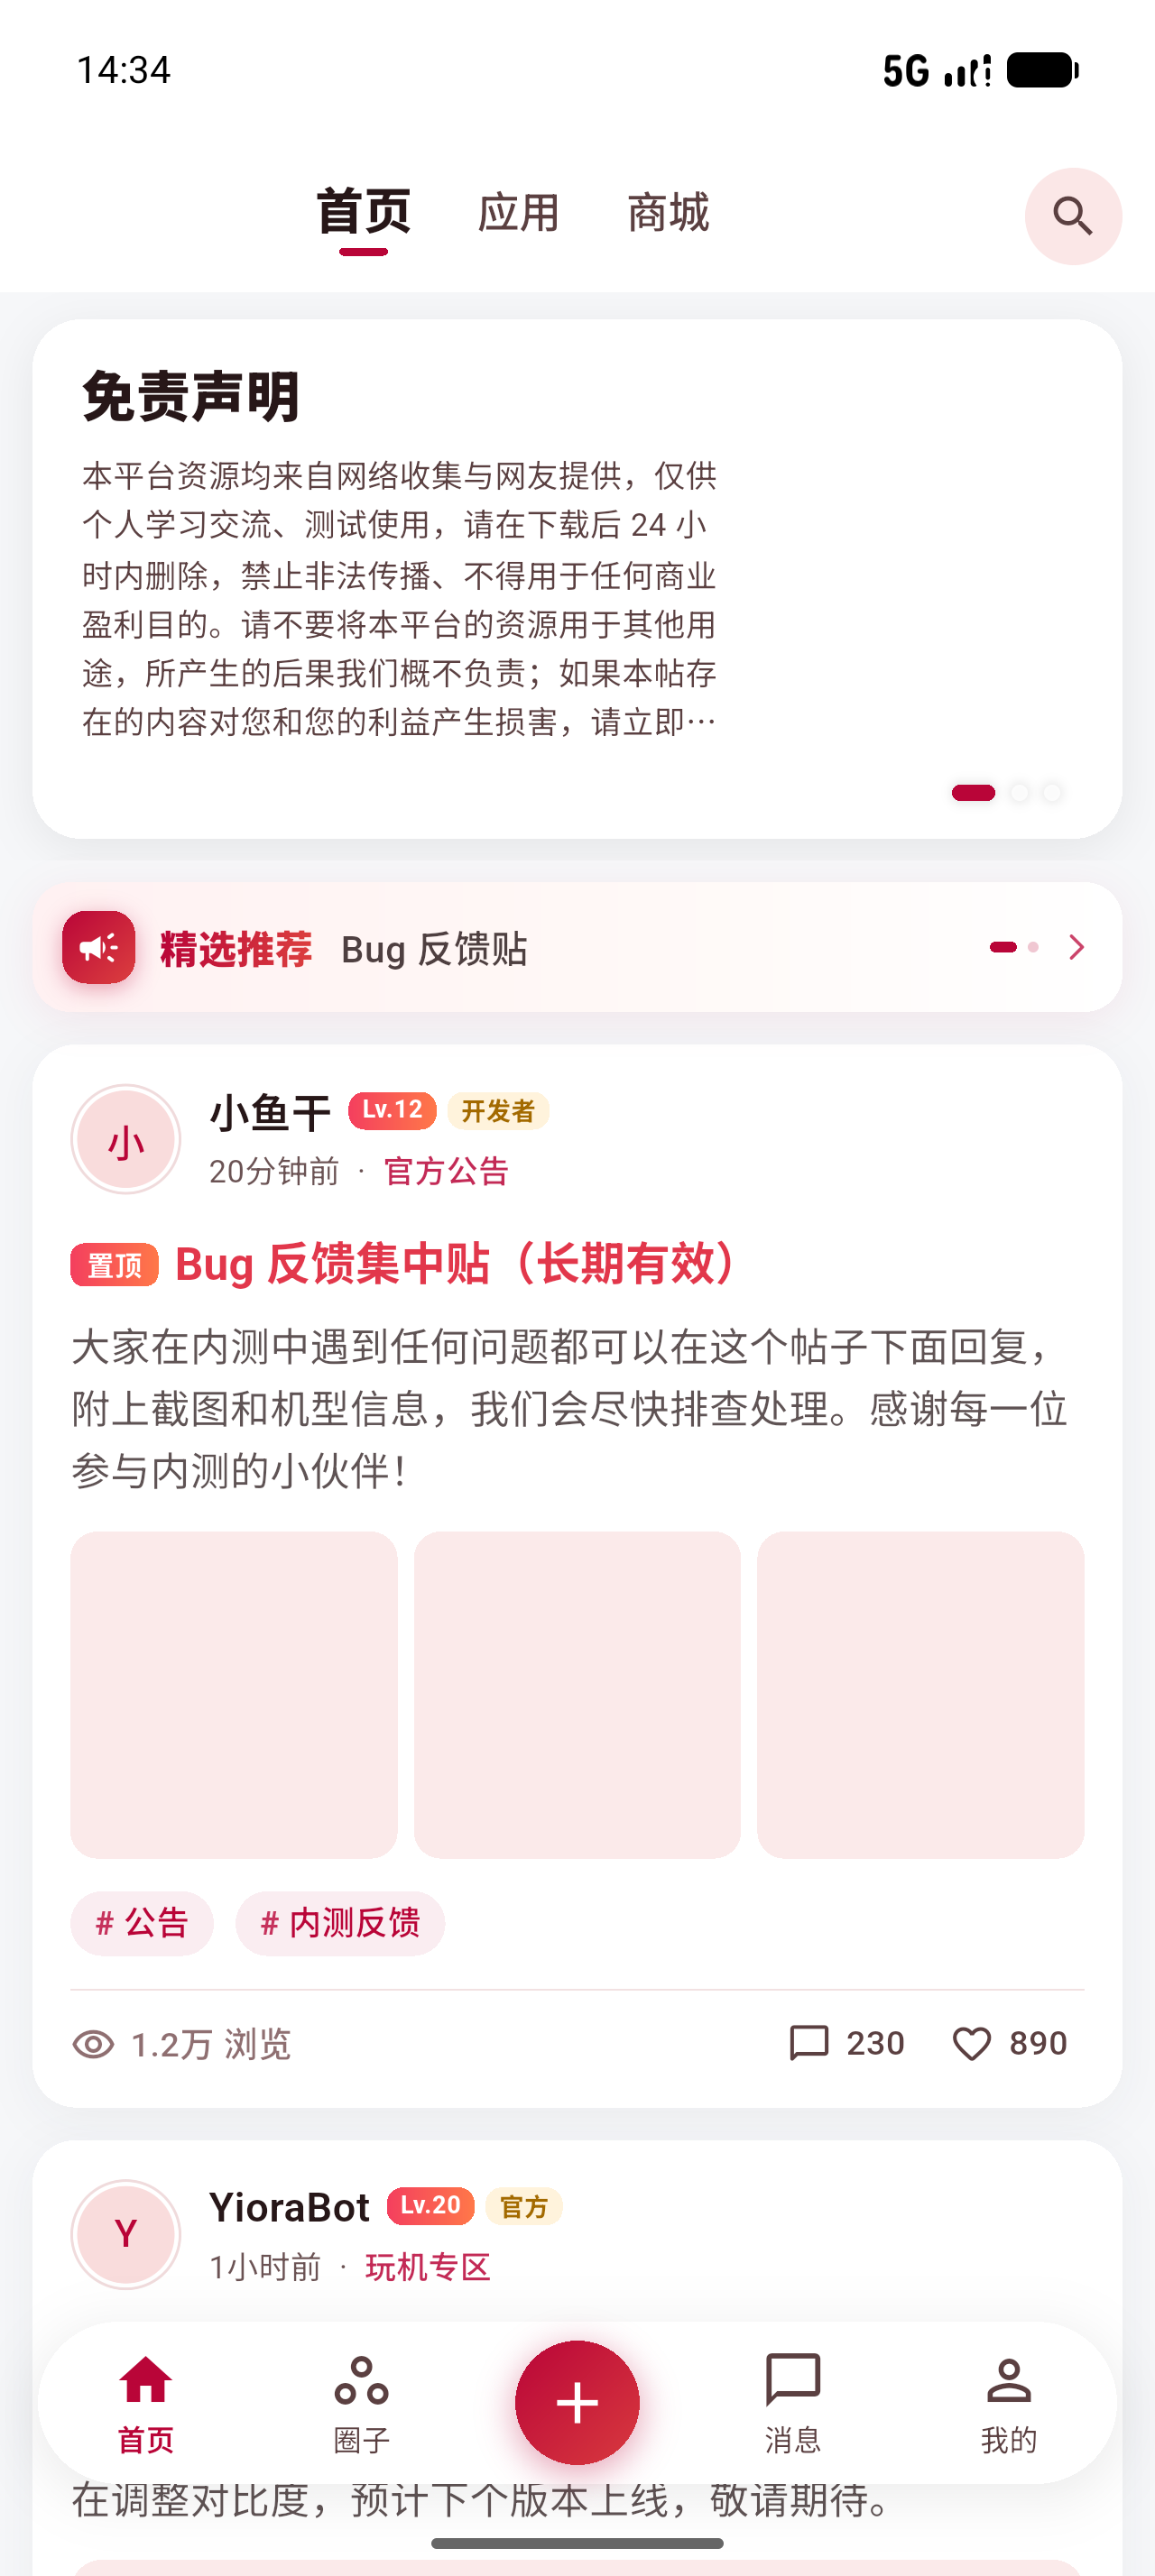
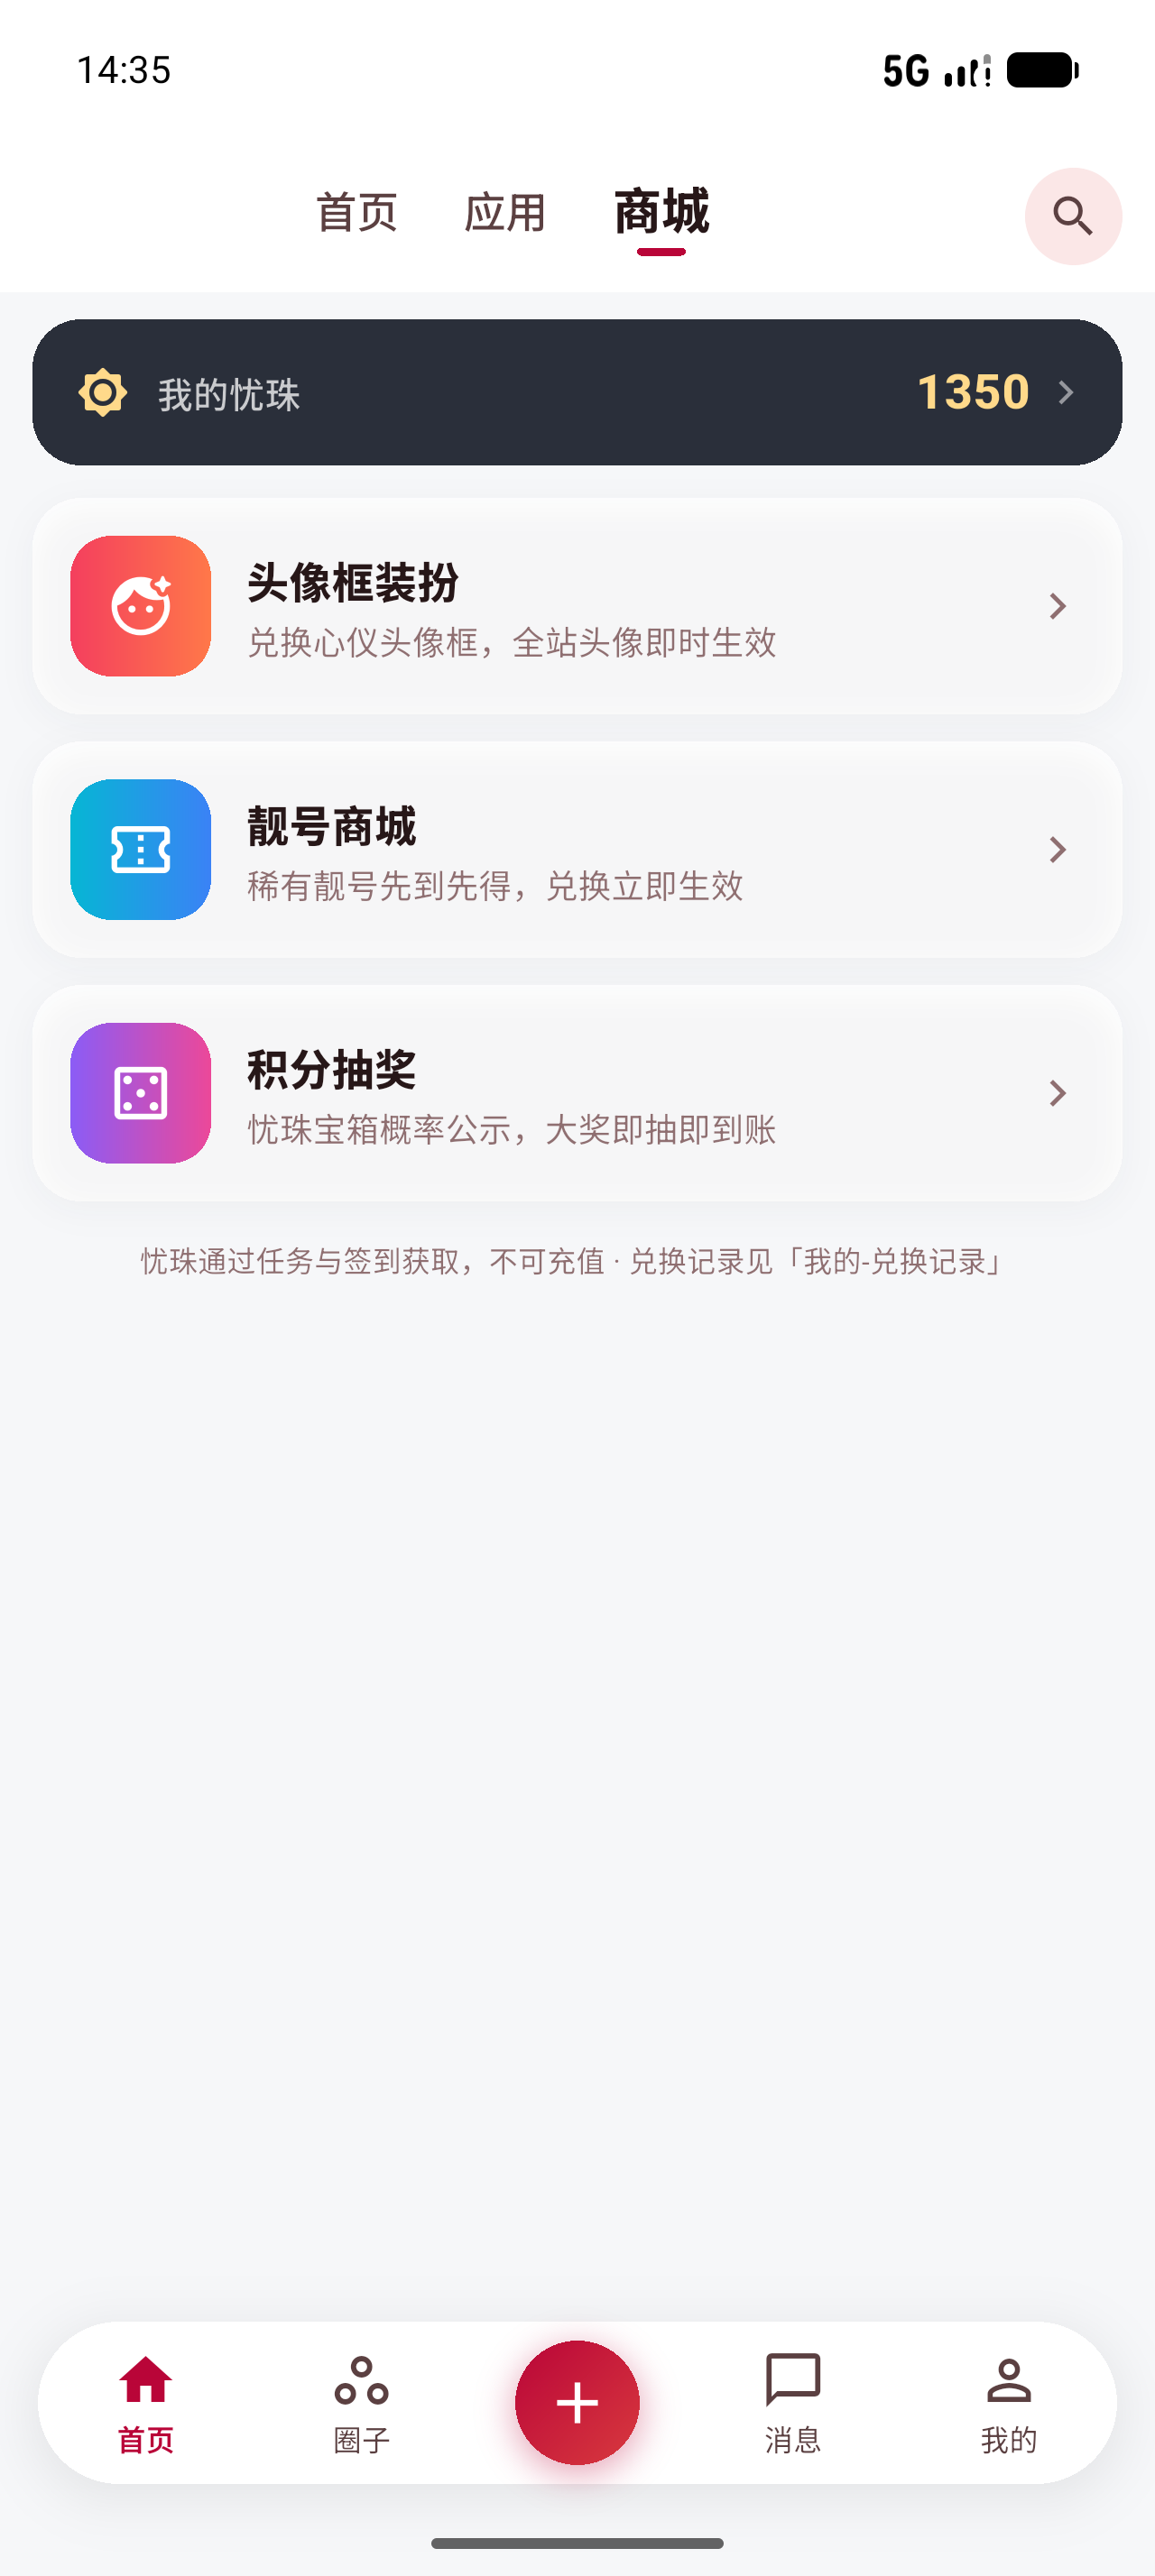
feat: push channel dashboard (per-channel ok/fail daily counters in apppush manager, admin /push/stats endpoint, dashboard card with fail-rate)

diff --git a/admin-web/src/views/yiora/DashboardView.vue b/admin-web/src/views/yiora/DashboardView.vue
@@ -48,6 +48,35 @@
       </template>
       <div ref="chartEl" class="chart" />
     </el-card>
+
+    <!-- 推送渠道(离线推送发送量/失败率,apppush 渠道计数) -->
+    <el-card v-if="pushStats.length" class="chart-card">
+      <template #header>
+        <div class="chart-bar">
+          <span>推送渠道(近 7 日)</span>
+          <span class="push-hint">离线推送各系统级通道健康度;未配置渠道不显示</span>
+        </div>
+      </template>
+      <el-table :data="pushStats" size="small">
+        <el-table-column prop="channel" label="渠道" width="140">
+          <template #default="{ row }">
+            <el-tag size="small">{{ row.channel }}</el-tag>
+          </template>
+        </el-table-column>
+        <el-table-column prop="ok" label="发送成功" width="120" />
+        <el-table-column prop="fail" label="失败" width="120" />
+        <el-table-column label="失败率" width="120">
+          <template #default="{ row }">
+            <span :class="{ 'fail-high': failRate(row) >= 5 }">{{ failRate(row).toFixed(1) }}%</span>
+          </template>
+        </el-table-column>
+        <el-table-column label="每日走势" min-width="200">
+          <template #default="{ row }">
+            <span class="spark">{{ row.days.map((d: { ok: number }) => d.ok).join(' / ') }}</span>
+          </template>
+        </el-table-column>
+      </el-table>
+    </el-card>
   </div>
 </template>
 
@@ -72,6 +101,19 @@ const loading = ref(false)
 const days = ref(30)
 const chartEl = ref<HTMLDivElement>()
 let chart: echarts.ECharts | null = null
+
+interface PushChannelStat {
+  channel: string
+  ok: number
+  fail: number
+  days: { date: string; ok: number; fail: number }[]
+}
+const pushStats = ref<PushChannelStat[]>([])
+
+function failRate(row: PushChannelStat) {
+  const total = row.ok + row.fail
+  return total === 0 ? 0 : (row.fail / total) * 100
+}
 
 const greeting = computed(() => {
   const h = new Date().getHours()
@@ -174,6 +216,7 @@ onMounted(async () => {
   try {
     data.value = await api.dashboard()
     await loadTrend()
+    pushStats.value = (await api.pushStats(7)).channels
     window.addEventListener('resize', onResize)
   } finally {
     loading.value = false
@@ -221,6 +264,20 @@ onBeforeUnmount(() => {
 }
 .hello-actions {
   margin-left: auto;
+}
+.push-hint {
+  font-size: 12px;
+  font-weight: 400;
+  color: var(--el-text-color-secondary);
+}
+.fail-high {
+  color: var(--el-color-danger);
+  font-weight: 600;
+}
+.spark {
+  color: var(--el-text-color-secondary);
+  font-size: 12px;
+  letter-spacing: 0.5px;
 }
 .col {
   margin-bottom: 16px;

diff --git a/admin-web/src/api/yiora.ts b/admin-web/src/api/yiora.ts
@@ -320,6 +320,12 @@ export const api = {
   // AI 管家应答来源统计
   botStats: (days = 7) =>
     http.get('/bot/stats', { params: { days } }) as Promise<{ days: { date: string; faq: number; llm: number; fallback: number }[] }>,
+
+  // 推送渠道看板
+  pushStats: (days = 7) =>
+    http.get('/push/stats', { params: { days } }) as Promise<{
+      channels: { channel: string; ok: number; fail: number; days: { date: string; ok: number; fail: number }[] }[]
+    }>,
 }
 
 export interface AdminCircleItem {

diff --git a/server/internal/pkg/apppush/apppush.go b/server/internal/pkg/apppush/apppush.go
@@ -6,8 +6,12 @@ package apppush
 
 import (
 	"context"
+	"fmt"
+	"sort"
+	"time"
 
 	"github.com/zeromicro/go-zero/core/logx"
+	"github.com/zeromicro/go-zero/core/stores/redis"
 )
 
 // Notification 一条离线推送。Deeplink 形如 yiora://post/123,客户端点击通知路由。
@@ -24,11 +28,15 @@ type Pusher interface {
 }
 
 // Manager 渠道路由器。空 Manager(无驱动)所有 Send 直接跳过。
+// 每次发送按渠道×结果落 Redis 日计数(30 天滚动),供后台推送看板。
 type Manager struct {
 	drivers map[string]Pusher
+	rds     *redis.Redis
 }
 
-func NewManager() *Manager { return &Manager{drivers: map[string]Pusher{}} }
+func NewManager(rds *redis.Redis) *Manager {
+	return &Manager{drivers: map[string]Pusher{}, rds: rds}
+}
 
 func (m *Manager) Register(channel string, p Pusher) {
 	if p != nil {
@@ -39,6 +47,31 @@ func (m *Manager) Register(channel string, p Pusher) {
 // Enabled 是否有任一驱动在册(调用方可先判再查 token 表,省一次查询)。
 func (m *Manager) Enabled() bool { return len(m.drivers) > 0 }
 
+// Channels 在册渠道名(看板遍历用),字典序稳定输出。
+func (m *Manager) Channels() []string {
+	out := make([]string, 0, len(m.drivers))
+	for c := range m.drivers {
+		out = append(out, c)
+	}
+	sort.Strings(out)
+	return out
+}
+
+// StatKey 渠道日计数 key(Manager 写入与看板读取共用,result 取 ok/fail)。
+func StatKey(channel, result, yyyymmdd string) string {
+	return fmt.Sprintf("push:stat:%s:%s:%s", channel, result, yyyymmdd)
+}
+
+func (m *Manager) incrStat(ctx context.Context, channel, result string) {
+	if m.rds == nil {
+		return
+	}
+	key := StatKey(channel, result, time.Now().Format("20060102"))
+	if n, err := m.rds.IncrCtx(ctx, key); err == nil && n == 1 {
+		_ = m.rds.ExpireCtx(ctx, key, 30*86400)
+	}
+}
+
 // Send 按渠道路由;渠道未配置或发送失败只记日志(离线推送是尽力而为的补偿,不影响主链路)。
 func (m *Manager) Send(ctx context.Context, channel, token string, n Notification) {
 	d, ok := m.drivers[channel]
@@ -47,5 +80,8 @@ func (m *Manager) Send(ctx context.Context, channel, token string, n Notificatio
 	}
 	if err := d.Send(ctx, token, n); err != nil {
 		logx.WithContext(ctx).Errorf("apppush %s: %v", d.Name(), err)
+		m.incrStat(ctx, channel, "fail")
+		return
 	}
+	m.incrStat(ctx, channel, "ok")
 }

diff --git a/server/internal/logic/adminlogic/adminlogic.go b/server/internal/logic/adminlogic/adminlogic.go
@@ -18,6 +18,7 @@ import (
 	"github.com/yiora/server/internal/logic/uploadlogic"
 	"github.com/yiora/server/internal/logic/userlogic"
 	"github.com/yiora/server/internal/model"
+	"github.com/yiora/server/internal/pkg/apppush"
 	"github.com/yiora/server/internal/pkg/captcha"
 	"github.com/yiora/server/internal/pkg/jwtx"
 	"github.com/yiora/server/internal/pkg/totp"
@@ -750,6 +751,36 @@ func (l *Logic) PublishNotice(ctx context.Context, adminID int64, req *types.Adm
 // Agreement 协议内容(用户侧/后台共用读取)。
 // agreementKinds 协议/静态文案合法类型;bot_prompt 为管家 LLM 系统提示词(仅后台可读写,用户侧接口拒绝)。
 var agreementKinds = map[string]bool{"user": true, "privacy": true, "bot_prompt": true}
+
+// PushStats 推送渠道看板:各渠道发送/失败日计数(apppush.Manager 写入)。
+func (l *Logic) PushStats(ctx context.Context, days int) (*types.PushStatsResp, error) {
+	out := &types.PushStatsResp{Channels: []types.PushChannelStat{}}
+	getN := func(key string) int64 {
+		v, err := l.svcCtx.Redis.GetCtx(ctx, key)
+		if err != nil || v == "" {
+			return 0
+		}
+		n, _ := strconv.ParseInt(v, 10, 64)
+		return n
+	}
+	for _, ch := range l.svcCtx.AppPush.Channels() {
+		stat := types.PushChannelStat{Channel: ch}
+		for i := days - 1; i >= 0; i-- {
+			day := time.Now().AddDate(0, 0, -i)
+			ok := getN(apppush.StatKey(ch, "ok", day.Format("20060102")))
+			fail := getN(apppush.StatKey(ch, "fail", day.Format("20060102")))
+			stat.OK += ok
+			stat.Fail += fail
+			stat.Days = append(stat.Days, struct {
+				Date string `json:"date"`
+				OK   int64  `json:"ok"`
+				Fail int64  `json:"fail"`
+			}{Date: day.Format("2006-01-02"), OK: ok, Fail: fail})
+		}
+		out.Channels = append(out.Channels, stat)
+	}
+	return out, nil
+}
 
 // BotStats 管家应答命中来源统计(Redis 按日计数,imlogic.botReply 写入)。
 func (l *Logic) BotStats(ctx context.Context, days int) (*types.BotStatsResp, error) {

diff --git a/server/internal/types/types.go b/server/internal/types/types.go
@@ -130,6 +130,27 @@ type BotStatsResp struct {
 	Days []BotStatDay `json:"days"`
 }
 
+// ---- 推送渠道看板 ----
+
+type PushStatsReq struct {
+	Days int `form:"days,default=7,range=[1:30]"`
+}
+
+type PushChannelStat struct {
+	Channel string `json:"channel"`
+	OK      int64  `json:"ok"`
+	Fail    int64  `json:"fail"`
+	Days    []struct {
+		Date string `json:"date"`
+		OK   int64  `json:"ok"`
+		Fail int64  `json:"fail"`
+	} `json:"days"`
+}
+
+type PushStatsResp struct {
+	Channels []PushChannelStat `json:"channels"`
+}
+
 // ---- 搜索联想 ----
 
 type SuggestReq struct {

diff --git a/server/internal/handler/adminhandler.go b/server/internal/handler/adminhandler.go
@@ -584,6 +584,22 @@ func adminDeleteWordHandler(svcCtx *svc.ServiceContext) http.HandlerFunc {
 	})
 }
 
+func adminPushStatsHandler(svcCtx *svc.ServiceContext) http.HandlerFunc {
+	return adminAuth(svcCtx, "dashboard", func(w http.ResponseWriter, r *http.Request, _ adminIdentity) {
+		var req types.PushStatsReq
+		if err := httpx.Parse(r, &req); err != nil {
+			resp.Error(w, r, xerr.Param(err.Error()))
+			return
+		}
+		out, err := adminlogic.New(svcCtx).PushStats(r.Context(), req.Days)
+		if err != nil {
+			resp.Error(w, r, err)
+			return
+		}
+		resp.OK(w, r, out)
+	})
+}
+
 func adminBotStatsHandler(svcCtx *svc.ServiceContext) http.HandlerFunc {
 	return adminAuth(svcCtx, "ops.notice", func(w http.ResponseWriter, r *http.Request, _ adminIdentity) {
 		var req types.BotStatsReq

diff --git a/server/internal/svc/servicecontext.go b/server/internal/svc/servicecontext.go
@@ -134,7 +134,7 @@ func NewServiceContext(c config.Config) *ServiceContext {
 		searcher = meiliClient
 	}
 	rds := redis.MustNewRedis(c.Redis)
-	pushMgr := apppush.NewManager()
+	pushMgr := apppush.NewManager(rds)
 	if c.Push.Mock {
 		pushMgr.Register("mock", apppush.NewMock(rds))
 	}

diff --git a/server/internal/handler/routes.go b/server/internal/handler/routes.go
@@ -178,6 +178,7 @@ func RegisterHandlers(server *rest.Server, svcCtx *svc.ServiceContext) {
 		{Method: http.MethodDelete, Path: "/banners/:id", Handler: adminDeleteBannerHandler(svcCtx)},
 		{Method: http.MethodGet, Path: "/dashboard", Handler: adminDashboardHandler(svcCtx)},
 		{Method: http.MethodGet, Path: "/dashboard/trend", Handler: adminTrendHandler(svcCtx)},
+		{Method: http.MethodGet, Path: "/push/stats", Handler: adminPushStatsHandler(svcCtx)},
 		{Method: http.MethodGet, Path: "/software/categories", Handler: adminCategoriesHandler(svcCtx)},
 		{Method: http.MethodPost, Path: "/software/categories", Handler: adminSaveCategoryHandler(svcCtx)},
 		{Method: http.MethodGet, Path: "/words", Handler: adminWordsHandler(svcCtx)},